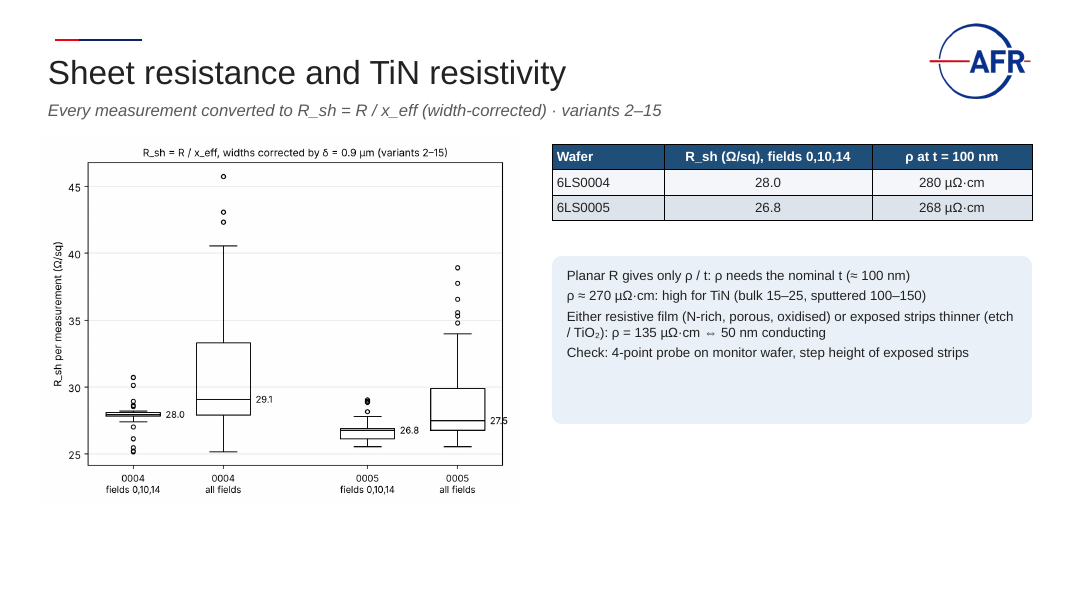
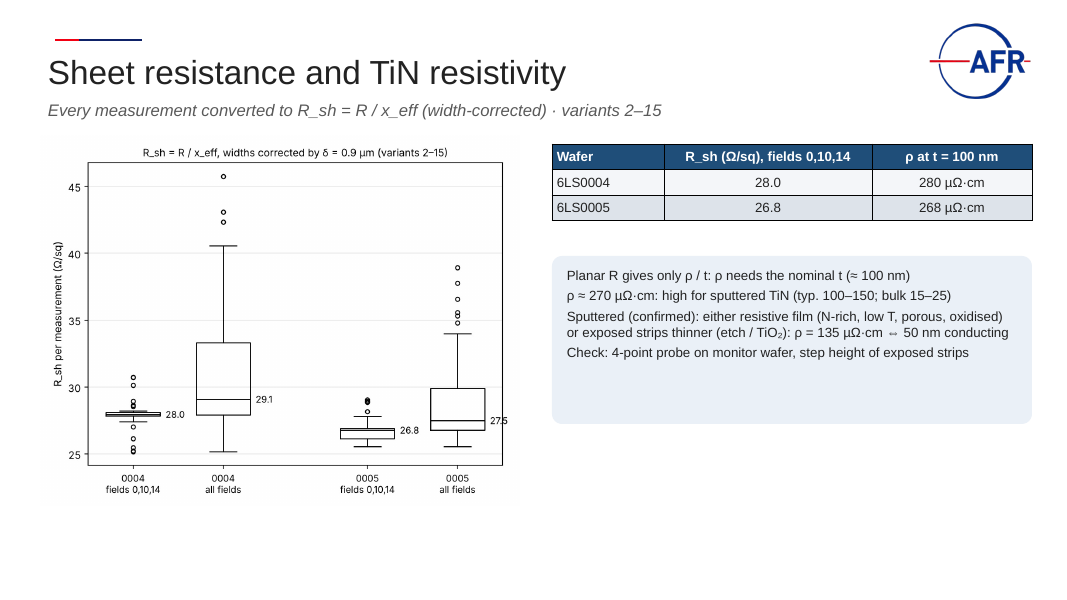
TiN deck: fixed-ratio predictor slide, sputtering noted
Claude-Session: https://claude.ai/code/session_01EHQDy7yrZwCZyHELu6KFb3

Changed region(s): [[0.5258, 0.48, 0.9588, 0.57]]

diff --git a/results/term_meas/build.py b/results/term_meas/build.py
@@ -27,9 +27,19 @@ image(s, C + "box_rsq.png", 0.5, 1.7, w=6.0)
 table(s, [["Wafer", "R_sh (Ω/sq), fields 0,10,14", "ρ at t = 100 nm"], ["6LS0004", f"{S['6LS0004/clean']['med']:.1f}", f"{S['6LS0004/clean']['med']*10:.0f} µΩ·cm"],
           ["6LS0005", f"{S['6LS0005/clean']['med']:.1f}", f"{S['6LS0005/clean']['med']*10:.0f} µΩ·cm"]], 6.9, 1.8, 6.0, [1.4, 2.6, 2.0], size=12)
 box(s, 6.9, 3.2, 6.0, 2.1, [("Planar R gives only ρ / t: ρ needs the nominal t (≈ 100 nm)", B),
-    ("ρ ≈ 270 µΩ·cm: high for TiN (bulk 15–25, sputtered 100–150)", B),
-    ("Either resistive film (N-rich, porous, oxidised) or exposed strips thinner (etch / TiO₂): ρ = 135 µΩ·cm ⇔ 50 nm conducting", B),
+    ("ρ ≈ 270 µΩ·cm: high for sputtered TiN (typ. 100–150; bulk 15–25)", B),
+    ("Sputtered (confirmed): either resistive film (N-rich, low T, porous, oxidised) or exposed strips thinner (etch / TiO₂): ρ = 135 µΩ·cm ⇔ 50 nm conducting", B),
     ("Check: 4-point probe on monitor wafer, step height of exposed strips", B)])
+# predictor
+P = json.load(open(C + "predictor.json"))
+s = new("Predictor: Rtot from wg, ws at fixed ratio", "Assuming Rtot = Rs + Rg / 2 · ws / wg = 2.63 as in all measured variants · L = 56 µm")
+rows = [["Rtot target (Ω)", "wg (µm)", "ws (µm)", "Field spread ±7 % (Ω)"]]
+for r in P["rows"]: rows.append([f"{r['R']:.1f}", f"{r['wg']:.1f}", f"{r['ws']:.1f}", f"{r['lo']:.1f} – {r['hi']:.1f}"])
+table(s, rows, 0.6, 1.8, 6.6, [1.7, 1.4, 1.4, 2.1], size=12, row_h=0.36, highlight=(5,))
+box(s, 7.6, 1.8, 5.2, 3.2, [H("Model"), ("Rtot = R_sh · L · [1/(ws − δ) + 1/(2(wg − δ))]", B), ("R_sh = 27.2 Ω/sq, δ = 0.9 µm (fields 10, 14)", B),
+    H("Validity"), ("Measured range: wg 12.6–27.3 µm (Rtot ≈ 50–120 Ω)", B), ("Rtot < 50 Ω: wider strips, mild extrapolation (δ matters less)", B),
+    ("Alternative fit (R₀ = 2 Ω): wg within 0.4 µm of the table", B), ("Other ws / wg ratios: needs the Rs + Rg/2 split, untested → add one off-ratio variant", B)])
+text(s, 0.6, 5.6, 6.6, 0.6, [("50 Ω ≈ variant 2 (71.8 / 27.3 µm), measured 50–52 Ω on fields 0, 10, 14", {"size": 11.5})])
 # 5 variant 1 + conclusions
 s = new("Variant 1 check and conclusions", "Crossed layout, L = 28 µm, not used in the fit")
 table(s, [["Variant 1", "R (Ω)"], ["Predicted (R_sh 27.2, δ 0.9)", "48.1"], ["Measured, median fields 10, 14", "50.2"], ["Difference", "+2.1 (+4 %)"]],
